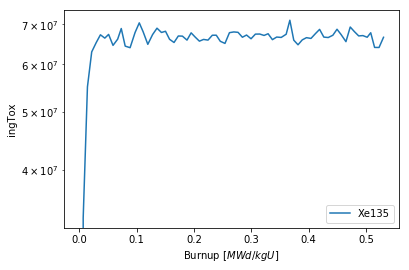
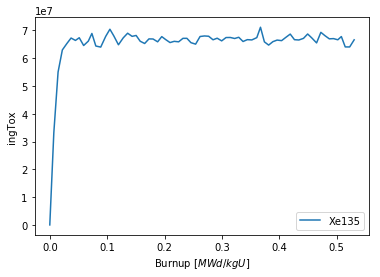
DOC Update depletion examples with new features
New plots and new documentation

Changed region(s): [[0.0, 0.0, 0.9842, 0.9778], [0.0579, 0.2963, 0.1158, 0.3259]]

diff --git a/docs/examples/DepletionReader.rst b/docs/examples/DepletionReader.rst
@@ -207,24 +207,27 @@ keyword. This will instruct the slicing tool to retrieve data that
 corresponds to values of ``days`` or ``burnup`` in the ``timePoints``
 list. By default the method returns data for every time point on the
 material unless ``timePoints`` is given. Similarly, one can pass a
-string or list of strings as the ``names`` argument and obtain data for
-those specific isotopes. Data for every isotope is given if ``names`` is
-not given.
+string or list of strings as the ``names`` or ``zai`` arguments and obtain data for
+those specific isotopes. Data for every isotope is given if ``names``
+or ``zai`` are not given.
 
 .. code:: 
     
     >>> dayPoints = [0, 5, 10, 30]
     >>> iso = ['Xe135', 'Sm149']
-    >>> vals = fuel.getValues('days', 'a', dayPoints, iso)
-    >>> print(vals.shape)
-    >>> print(vals)
-
+    >>> zai = [541350, 621490]
+    >>> isoVals = fuel.getValues('days', 'a', dayPoints, iso)
+    >>> print(isoVals.shape)
+    >>> zaiVals = fuel.getValues('days', 'a', dayPoints, zai=zai)
+    print(isoVals - zaiVals)
 
 .. parsed-literal::
 
     (2, 4)
     [[0.00000e+00 3.28067e+14 3.24606e+14 3.27144e+14]
      [0.00000e+00 0.00000e+00 0.00000e+00 0.00000e+00]]
+    [[ 0.  0.  0.  0.]
+     [ 0.  0.  0.  0.]]
 
 The |depMat| uses this slicing for the built-in |depMatPlot| method, 
 which takes similar slicing arguments to |getValues|.
@@ -239,45 +242,50 @@ replacements
 +-----------+--------------------------------------+
 | String    | Replacement                          |
 +===========+======================================+
-| ``'mat'`` | Name of the material                 |
+| ``{mat}`` | Name of the material                 |
 +-----------+--------------------------------------+
-| ``'iso'`` | Name of the isotope, e.g. ``'U235'`` |
+| ``{iso}`` | Name of the isotope, e.g. ``'U235'`` |
 +-----------+--------------------------------------+
-| ``'zai'`` | ZZAAAI of the isotope, e.g. 922350   |
+| ``{zai}`` | ZZAAAI of the isotope, e.g. 922350   |
 +-----------+--------------------------------------+
+
+By default, the plot method will plot data for all isotopes present,
+leading to very busy plots. The plots can be cleaned up by passing
+isotope names or ``ZZAAAI`` identifiers to the ``names`` or ``zai``
+arguments, respectively.
 
 .. code:: 
     
-    >>> fuel.plot('days', 'adens', dayPoints, iso, 
-    ...           ylabel='Atomic Density [#/cc]');
+    >>> fuel.plot('burnup', 'ingTox', names='Xe135');
 
 
-
-
-.. image:: DepletionReader_files/DepletionReader_22_0.png
-
-.. code:: 
-    
-    >>> fuel.plot('burnup', 'ingTox', names='Xe135', logy=True,
-    ...                  labelFmt="{iso}");
 
 .. image:: DepletionReader_files/DepletionReader_23_0.png
+
+
+.. code:: 
+    
+    >>> fuel.plot('burnup', 'mdens', zai=[541350, 531350]);
+
+.. image:: DepletionReader_files/DepletionReader_24_0.png
 
 This type of plotting can also be applied to the |depReader| 
 :py:func:`~serpentTools.parsers.depletion.DepletionReader.plot` method
 , with similar options for formatting and retrieving data. The
 materials to be plotted can be filtered using the ``materials``
-argument
+argument.
+Here, the ``labelFmt`` argument is used to modify the labels
+for each plot.
 
 .. code:: 
-
+    
     >>> dep.plot('burnup', 'adens', names=iso, 
-    >>>          materials=['fuel0', 'total'],
-    >>>          labelFmt="{mat}: {iso}", loglog=True);
+    ...          materials=['fuel0', 'total'],
+    ...          labelFmt="{mat}: {iso} // {zai}", loglog=True);
 
 
 
-.. image:: DepletionReader_files/DepletionReader_25_0.png
+.. image:: DepletionReader_files/DepletionReader_26_0.png
 
 
 Limitations
